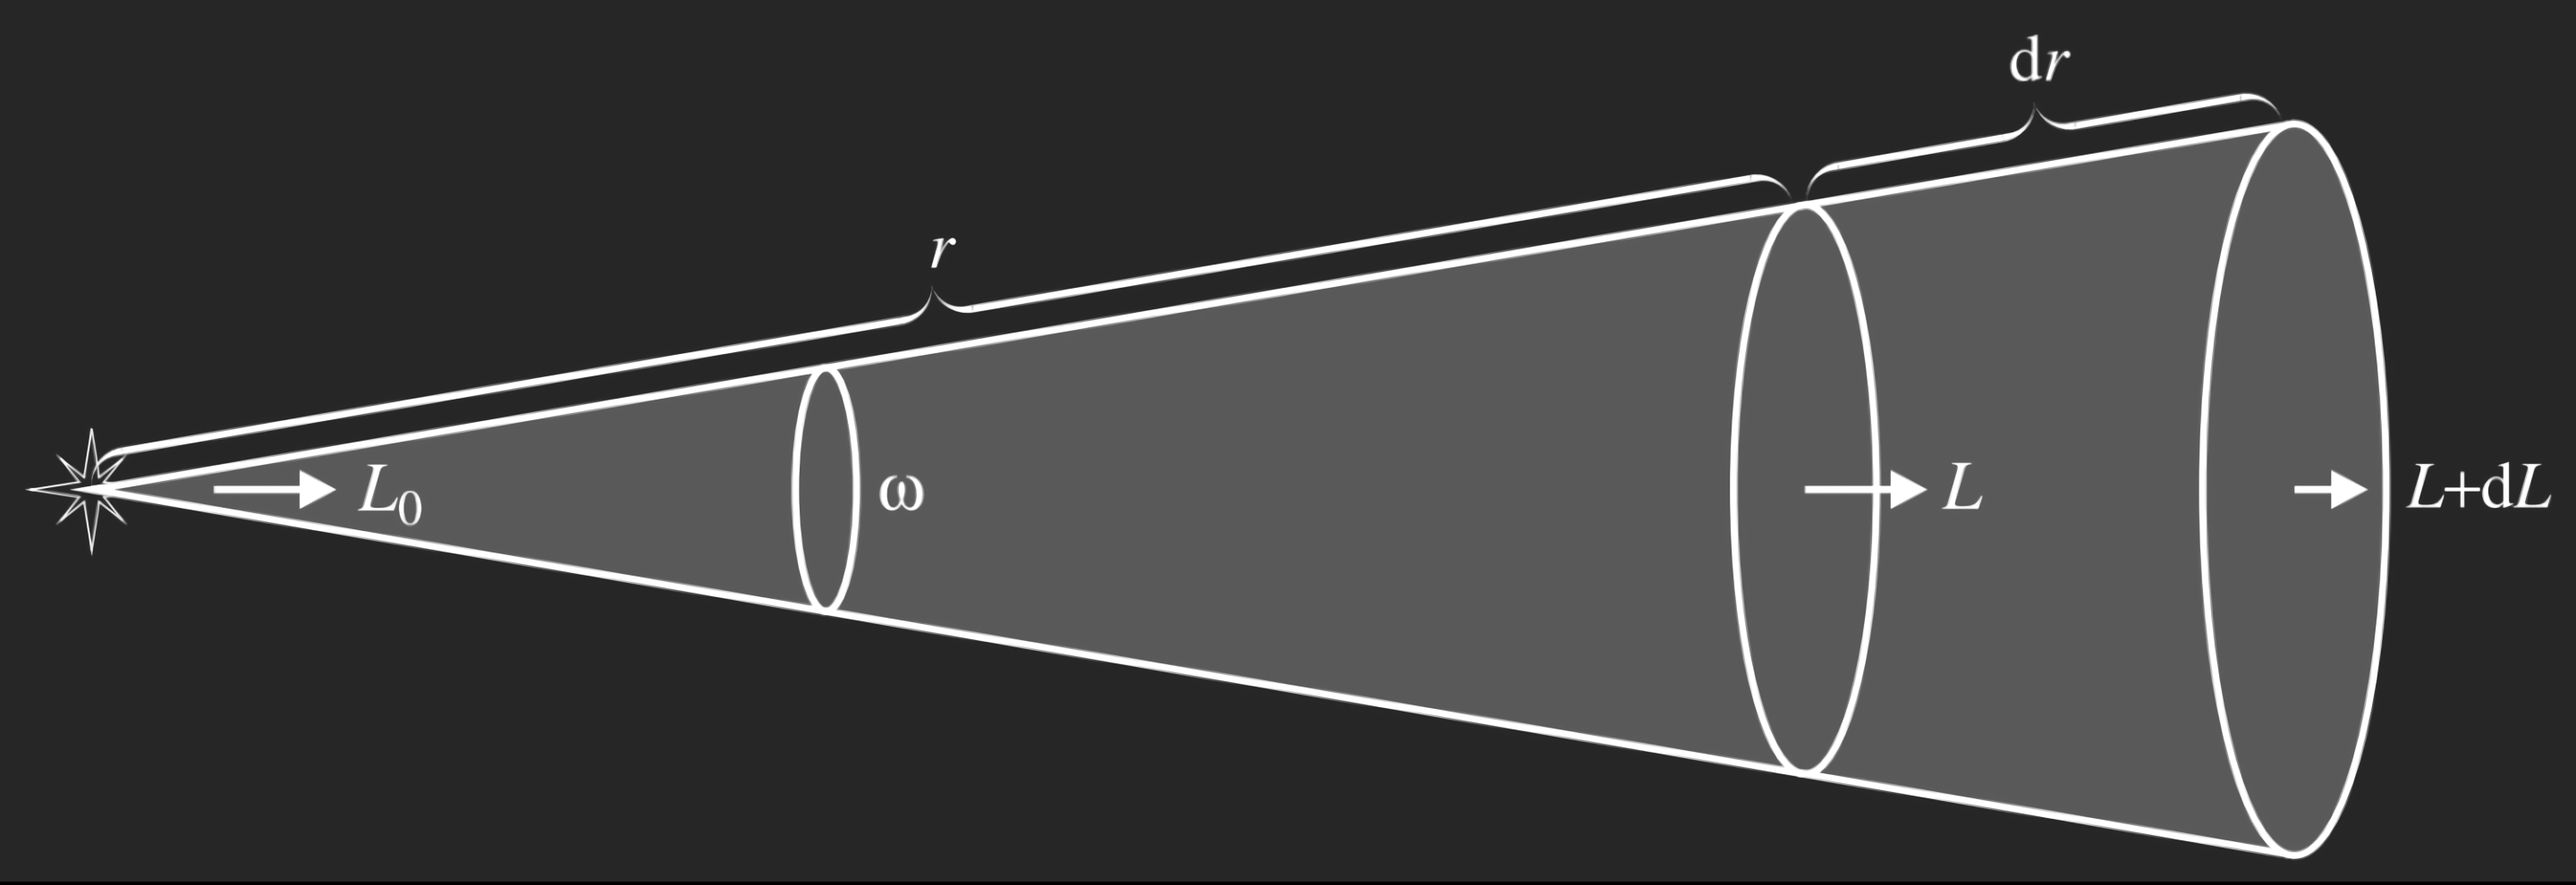
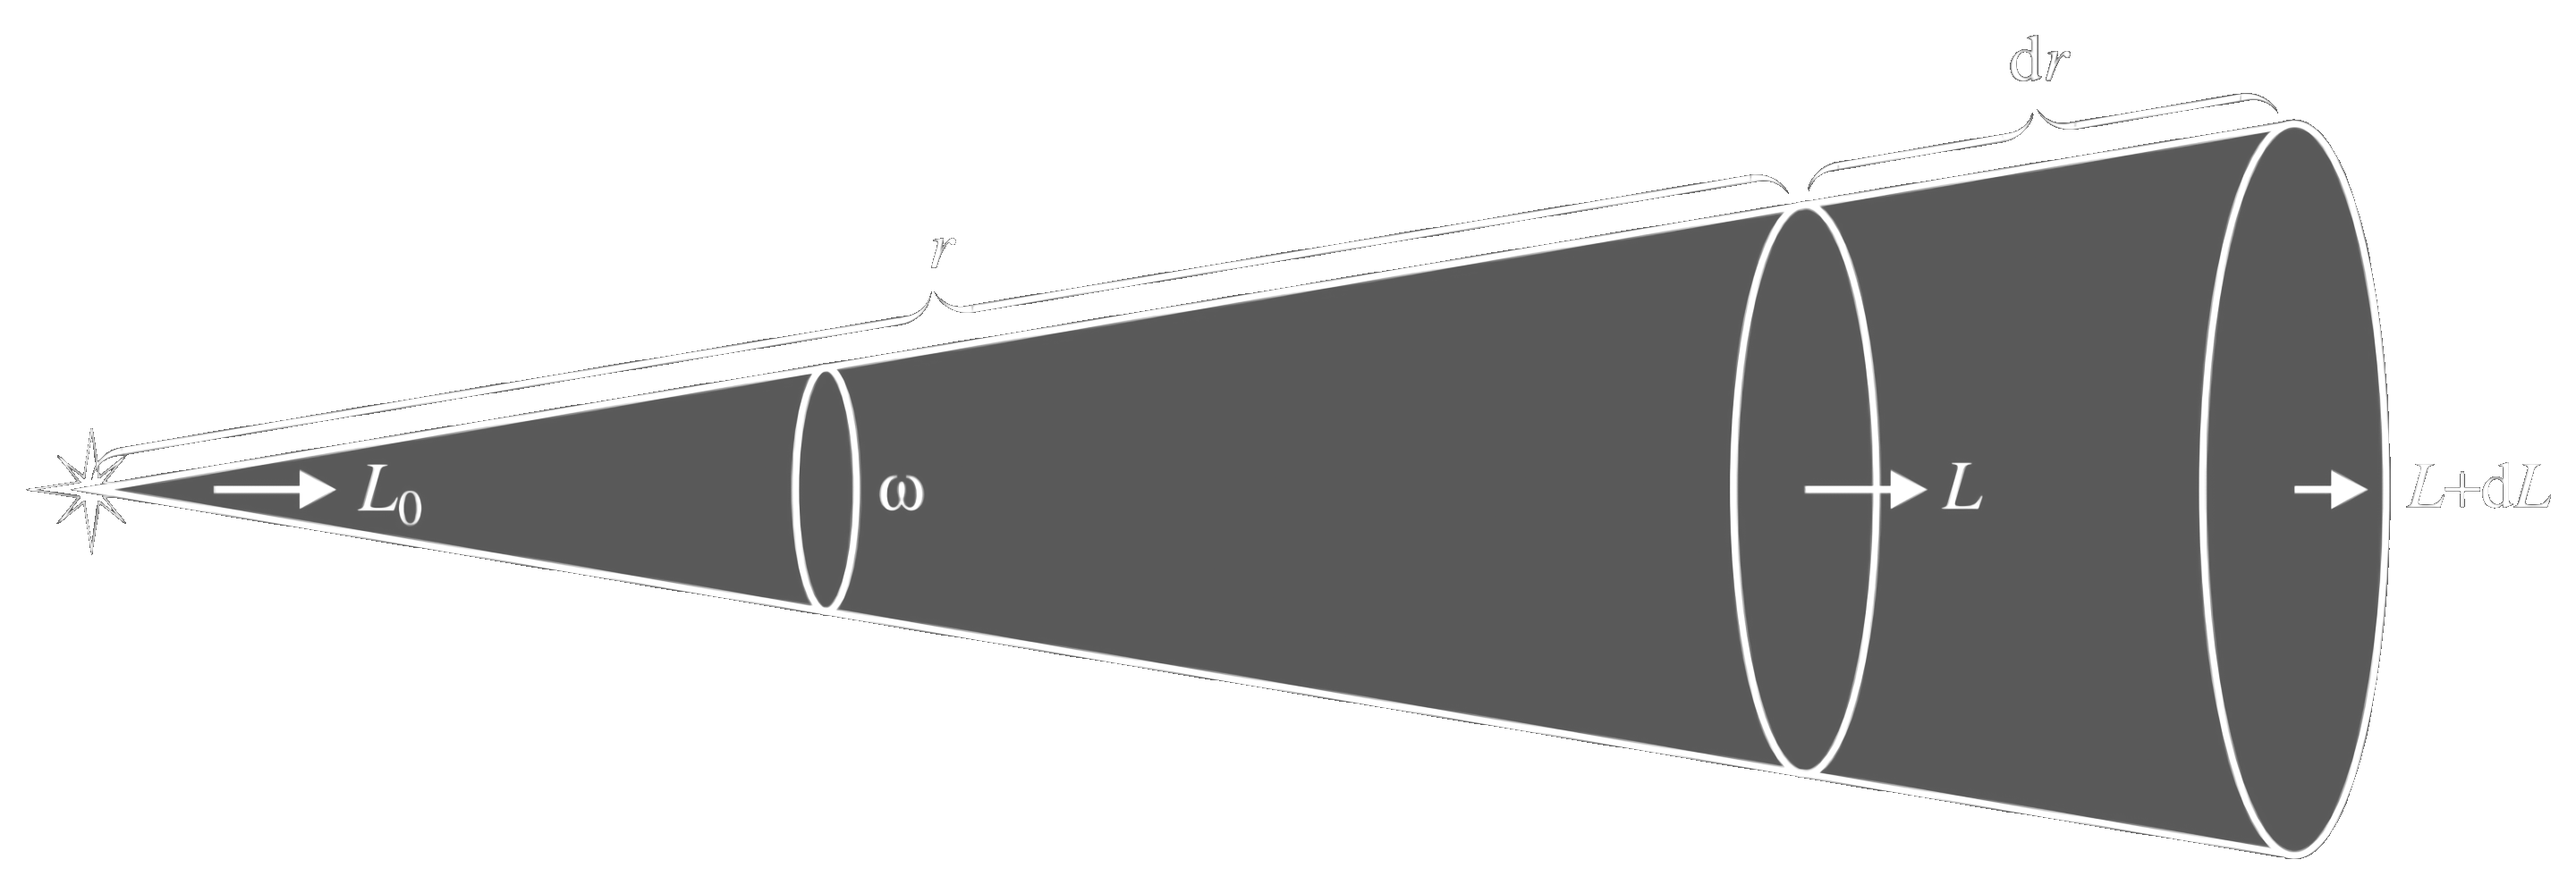
touched up page on magnitude and extinction

diff --git a/docs/optics/magnitude/apparent_absolute_magnitude.md b/docs/optics/magnitude/apparent_absolute_magnitude.md
@@ -35,20 +35,26 @@ This came to a head when, in recent years, Vega was also found to be variable. H
 
 Using this method, we have been able to standardize the following variables for easy reference:
 
-| Object                                            | Magnitude         |
-| ------------------------------------------------- | ----------------- |
-| $m_{sun} = m_\bigodot$                            | -26.7 (VERY LOW)  |
-| $m_{moon}$ (when brightest)                       | -12.9 (Quite Low) |
-| $m_{venus}$ (when brightest)                      | -4.9              |
-| $m_{sirius}$ (brightest star)                     | -1.5              |
-| $m_{vega}$ ((ex-)reference point)                 | +0.0              |
-| $m_{min}$ (faintest star visible to the naked eye | +6.0              |
+| Object                                                 | Magnitude         |
+| ------------------------------------------------------ | ----------------- |
+| $m_\text{Sun} = m_\bigodot$                            | -26.7 (VERY LOW)  |
+| $m_\text{Moon}$ (when brightest)                       | -12.9 (Quite Low) |
+| $m_\text{Venus}$ (when brightest)                      | -4.9              |
+| $m_\text{Sirius}$ (brightest star)                     | -1.5              |
+| $m_\text{Vega}$ ((ex-)reference point)                 | +0.0              |
+| $m_\text{min}$ (faintest star visible to the naked eye | +6.0              |
 
 ### Pogson's Law
 
 Pogson's Law is used to compare between two different objects in the night sky. We use a logarithmic scale of base 10, or 2.512. The equation is as follows:
 
-$$\begin{align*}\frac{F_1}{F_2} &= 10^{\frac{2}{5} \left(m_2 - m_1 \right)}\\m_2-m_1 &= 2.5\log\left(\frac{F_1}{F_2}\right) \\ m_1-m_2 &= -2.5\log\left(\frac{F_1}{F_2}\right)\end{align*}$$
+$$
+\begin{align*}
+\frac{F_1}{F_2} &= 10^{\frac{2}{5} \left(m_2 - m_1 \right)}\\
+m_2-m_1 &= 2.5\log\left(\frac{F_1}{F_2}\right)\\
+m_1-m_2 &= -2.5\log\left(\frac{F_1}{F_2}\right)
+\end{align*}
+$$
 
 $F$ refers to the _Flux_ of light (brightness). This law is applicable in calculations such as:
 
@@ -60,7 +66,11 @@ $F$ refers to the _Flux_ of light (brightness). This law is applicable in calcul
     === "Solution"
         Since we know that the Sun's Apparent Magnitude is -26.7, and the Full Moon's Apparent Magnitude is -12.9, we can apply it to the formula below:
 
-        $$\begin{align*} \frac{F_\bigodot}{F_{moon}} &= 10^{\frac{2}{5} \left(-12.9 - (-26.7) \right)} \\ &= 10^{\frac{2}{5}\left(13.8\right)} \\ &\approx 10^6 = 1 000 000 \end{align*}$$
+        $$\begin{align*}
+        \frac{F_\bigodot}{F_\text{moon}} &= 10^{\frac{2}{5} \left(-12.9 - (-26.7) \right)}\\
+        &= 10^{\frac{2}{5}\left(13.8\right)}\\
+        &\approx 10^6 = 1 000 000
+        \end{align*}$$
 
         By this, we note that the sun is a million times brighter than the moon in the Earth sky.
 
@@ -81,7 +91,13 @@ If we are comparing the apparent magnitude of a star at different distances, we 
 
 Since $F \propto \frac{L}{4\pi d^2}$:
 
-$$\begin{align*}\frac{F_1}{F_2} &= 10^{\frac{2}{5} \left(m_2 - m_1 \right)} \\ \frac{\frac{L}{4\pi d_1^2}}{\frac{L}{4\pi d_2^2}} &= 10^{\frac{2}{5} \left(m_2 - m_1 \right)} \\ \frac{d_2^2}{d_1^2} &= 10^{\frac{2}{5} \left(m_2 - m_1 \right)} \\ \log\left(\frac{d_2^2}{d_1^2}\right) &= \frac{2}{5} (m_2-m_1) \\\\ 2\log\left(\frac{d_2}{d_1}\right) &= \frac{2}{5} (m_2-m_1) \\ \therefore m_2 - m_1 &= 5\log\left(\frac{d_2}{d_1}\right) \end{align*}$$
+??? Abstract "Derivation"
+
+    $$\begin{align*}\frac{F_1}{F_2} &= 10^{\frac{2}{5} \left(m_2 - m_1 \right)} \\ \frac{\frac{L}{4\pi d_1^2}}{\frac{L}{4\pi d_2^2}} &= 10^{\frac{2}{5} \left(m_2 - m_1 \right)} \\ \frac{d_2^2}{d_1^2} &= 10^{\frac{2}{5} \left(m_2 - m_1 \right)} \\ \log\left(\frac{d_2^2}{d_1^2}\right) &= \frac{2}{5} (m_2-m_1) \\\\ 2\log\left(\frac{d_2}{d_1}\right) &= \frac{2}{5} (m_2-m_1) \\ \therefore m_2 - m_1 &= 5\log\left(\frac{d_2}{d_1}\right) \end{align*}$$
+
+$$
+m_2 - m_1 = 5\log\left(\frac{d_2}{d_1}\right)
+$$
 
 !!! Question "Binary Star System"
 
@@ -216,7 +232,7 @@ $m - M$ is also known as the _distance modulus_, since it only depends on the di
     === "Solution"
 
         $$\begin{align*}
-        M_{new} - M{old} &= -2.5\log\left(\frac{F_{new}}{F_{old}}\right)\\
+        M_{new} - M_{old} &= -2.5\log\left(\frac{F_{new}}{F_{old}}\right)\\
         M_{new} &= M_{old} -2.5\log(10^9)\\
         M_{new} &= -17.5
         \end{align*}$$

diff --git a/docs/optics/magnitude/extinction.md b/docs/optics/magnitude/extinction.md
@@ -8,19 +8,19 @@ All of these radiation loses are called _extinction_.
 ![](../img/cone_of_light.png#only-light)
 ![](../img/cone_of_light_dark.png#only-dark)
 
-Here we have a star radiating energy flux (i.e. light) $L_0$ into a region (more formally, a solid angle $\omega$) in some wavelength range (Extinction rates are different for different wavelengths).
+Here we have a star radiating energy flux (i.e. light) $L_0$ into a region (more formally, a [solid angle](../solid_angle.md) $\omega$) in some wavelength range (Extinction rates are different for different wavelengths).
 
 Since the medium absorbs and scatters radiation, the total light (energy flux) into the region $L$ will now decrease with increasing distance $r$.
 
-From $r$ to $r+dr$, the amount of light/energy flux drops from $L$ to $L+dL$ ($dL\leq0$).
-This drop in light ($dL$) is proportional to the amount of light through the interstellar medium. (If you shine a greater amount of light through it, the absolute value of the drop ($dL$) will increase)
+From $r$ to $r+dr$, the amount of light/energy flux drops from $L$ to $L+dL$ (where $dL\leq0$ is negative).
+This drop in light ($dL$) is proportional to the amount of light through the interstellar medium. (If you shine a greater amount of light through it, the _additive_ value of the drop ($dL$) will increase)
 
-$dL$ is also proportional to the distance travelled in the interstellar medium. (The longer light has to travel, the greater amount of light lost)
+$dL$ is also proportional to the distance travelled in the interstellar medium ($dr$). (The longer light has to travel, the greater amount of light lost)
 
 $$
 \begin{align*}
 dL &\propto L \\
-dL &\propto r \\
+dL &\propto dr \\
 dL &= -\alpha\cdot L \cdot dr
 \end{align*}
 $$
@@ -48,8 +48,8 @@ $$
     \int^L_{L_0} \frac{dL}{L} &= -\alpha \int^r_0 dr \\
     \ln L - \ln L_0 &= -\alpha r \\
     \ln\left(\frac{L}{L_0}\right) &= -\alpha r \\
-    \frac{L}{L_0} = e^{-\alpha r} \\
-    L = L_0e^{-\alpha r}
+    \frac{L}{L_0} &= e^{-\alpha r} \\
+    L &= L_0e^{-\alpha r}
     \end{align*}$$
 
 ## Optical Thickness
@@ -77,7 +77,7 @@ m - M &= 5\log\left(\frac{r}{10 \text{pc}}\right) + 2.5\tau\log e\\
 \end{align*}
 $$
 
-where $A$ is the extinction.
+where $A$ is the _extinction_ (Difference in "expected" magnitude and actual magnitude).
 
 If opacity $\alpha$ is constant throughout the line of sight, we get
 
@@ -162,25 +162,25 @@ where $r$ is the distance to the star, and $a=2.5\alpha\log e$ being the extinct
         We unfortunately cannot solve this analytically. However, we can solve this numerically via iteration.
         This sounds intimidating and hard to do manually, but it is actually rather easy on a calculator with an "Ans" button.
 
-        We just get a random $ by just randomly estimating or guessing, and get a slightly more accurate $d_{new}$
+        We just get a random $d$ by just randomly estimating or guessing, and get a slightly more accurate $d_{new}$ using:
 
-        $$d_{new} = 10\times10^{2-0.0004d_{old}}$$
+        $$d_{new} = 10\times10^{2-0.0004\timesd_{old}}$$
 
         Now just plug the new $d_{old}$ value and repeat until it approaches some value.
 
         on a calculator you would want to input something like this, and repeatedly spam the equals button:
 
         $$
-        10\times10^{2-0.0004\text{Ans}}
+        10\times10^{2-0.0004\times\text{Ans}}
         $$
 
-        you will get an answer of 584pc (580pc because 2sf)
+        you will get an answer of 584pc (actually 580pc because 2sf)
 
 ??? Question
 
     === "Fundamental Astronomy Example 4.7"
 
-        What is the optical thickness of a layer of fog, if the Sun seen through the fog seems as bright as a full moon in a cloudless sky? (take m_\odot = -26.7 and m_{moon} (full moon) = -12.9)
+        What is the optical thickness of a layer of fog, if the Sun seen through the fog seems as bright as a full moon in a cloudless sky? (take $m_\odot = -26.7$ and $m_\text{moon} = -12.9$ for a full moon)
 
     === "Solution"
 
